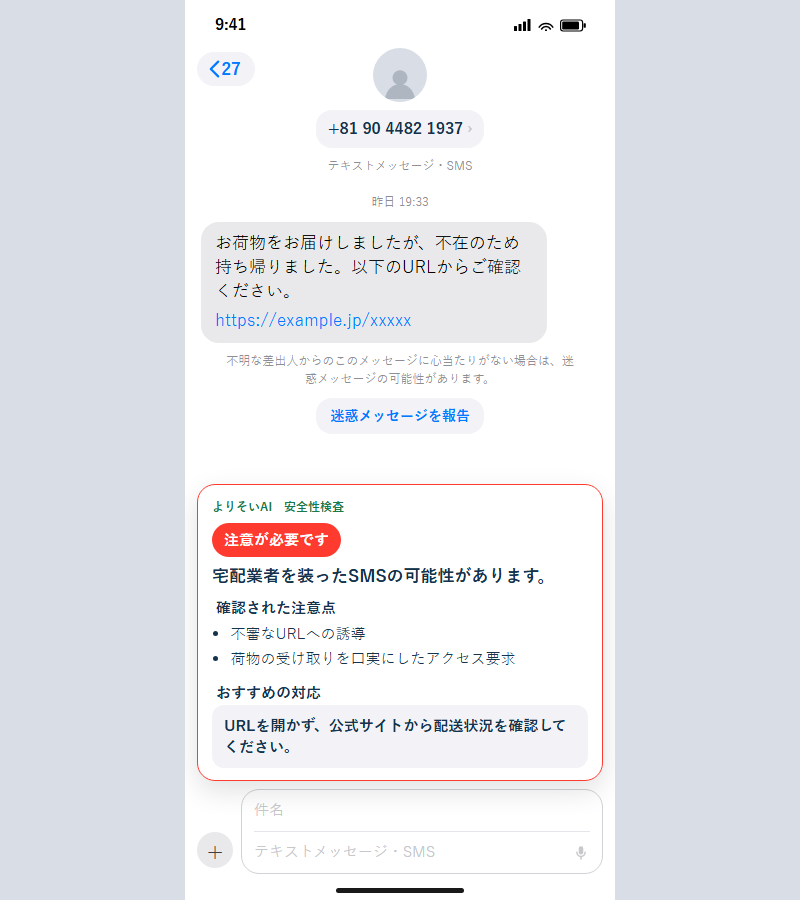
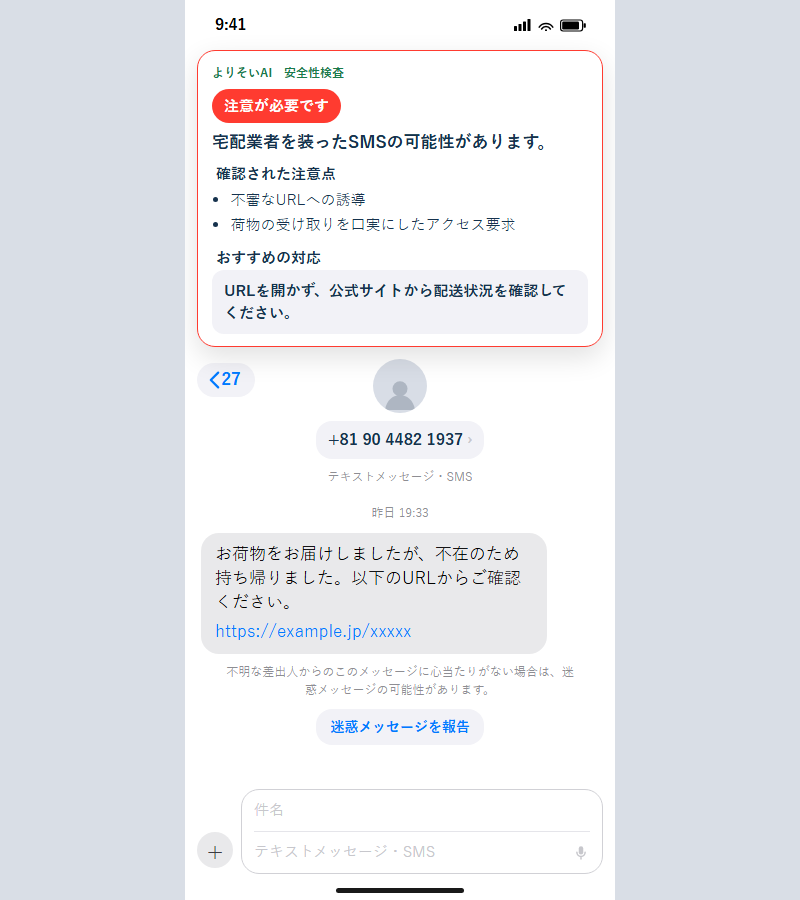
よりそいAIの通知を画面上部に出す

Changed region(s): [[0.25, 0.0311, 0.7188, 0.4978], [0.25, 0.5289, 0.6875, 0.84], [0.5625, 0.5289, 0.5938, 0.56]]

diff --git a/guide.html b/guide.html
@@ -5,7 +5,7 @@
   <meta name="viewport" content="width=device-width, initial-scale=1, viewport-fit=cover">
   <meta name="apple-mobile-web-app-capable" content="yes">
   <title>よりそいAI｜操作支援</title>
-  <link rel="stylesheet" href="app.css?v=8">
+  <link rel="stylesheet" href="app.css?v=9">
 </head>
 <body>
   <main class="phone scene">
@@ -18,6 +18,16 @@
         <svg width="27" height="13" viewBox="0 0 27 13"><rect x="0.6" y="1" width="22" height="11" rx="2.4" stroke="#fff" fill="none" stroke-width="1.2"/><rect x="2.2" y="2.6" width="16.8" height="7.8" rx="1.2" fill="#fff"/><rect x="23.6" y="4.2" width="2.2" height="4.6" rx="0.7" fill="#fff"/></svg>
       </div>
     </div>
+    <section class="coach" aria-label="よりそいAIの案内">
+      <div>
+        <p class="who">よりそいAI　操作支援</p>
+        <h2>ゲームアプリを長押ししてください。</h2>
+        <p>アイコンを指で押し続けてください。<br>続いて「Appを削除」を選んでください。</p>
+      </div>
+      <button type="button" class="speak" aria-label="音声で案内">
+        <svg width="26" height="26" viewBox="0 0 24 24" aria-hidden="true"><path d="M4 9.5v5h3.2L12 18.6V5.4L7.2 9.5H4z" fill="#fff"/><path d="M15.2 8.5a4.2 4.2 0 0 1 0 7M17.6 6.4a7.2 7.2 0 0 1 0 11.2" fill="none" stroke="#fff" stroke-width="1.8" stroke-linecap="round"/></svg>
+      </button>
+    </section>
     <div class="home-grid" aria-label="iPhoneのホーム画面">
       <div class="tile"><span class="mark ico-map"><svg viewBox="0 0 24 24"><path d="M12 21s6-5.4 6-10.2A6 6 0 0 0 6 10.8C6 15.6 12 21 12 21z"/><circle cx="12" cy="10.8" r="1.8" fill="#fff" stroke="none"/></svg></span><span>地図</span></div>
       <div class="tile"><span class="mark ico-clock"><svg viewBox="0 0 24 24"><circle cx="12" cy="12" r="8"/><path d="M12 8v4.4l3 1.8"/></svg></span><span>時計</span></div>
@@ -33,16 +43,6 @@
       <div class="row">編集</div>
       <div class="row danger">Appを削除</div>
     </aside>
-    <section class="coach" aria-label="よりそいAIの案内">
-      <div>
-        <p class="who">よりそいAI　操作支援</p>
-        <h2>ゲームアプリを長押ししてください。</h2>
-        <p>アイコンを指で押し続けてください。<br>続いて「Appを削除」を選んでください。</p>
-      </div>
-      <button type="button" class="speak" aria-label="音声で案内">
-        <svg width="26" height="26" viewBox="0 0 24 24" aria-hidden="true"><path d="M4 9.5v5h3.2L12 18.6V5.4L7.2 9.5H4z" fill="#fff"/><path d="M15.2 8.5a4.2 4.2 0 0 1 0 7M17.6 6.4a7.2 7.2 0 0 1 0 11.2" fill="none" stroke="#fff" stroke-width="1.8" stroke-linecap="round"/></svg>
-      </button>
-    </section>
     <div class="dock" aria-hidden="true">
       <div class="tile"><span class="mark ico-call"><svg viewBox="0 0 24 24"><path d="M6.6 3.8h3.1l1 4.1-2 1.2a12.5 12.5 0 0 0 6.2 6.2l1.2-2 4.1 1v3.1c0 .9-.7 1.6-1.6 1.6C10.4 19 5 13.6 5 5.4 5 4.5 5.7 3.8 6.6 3.8z"/></svg></span><span>電話</span></div>
       <div class="tile"><span class="mark ico-photo"><svg viewBox="0 0 24 24"><rect x="3.5" y="5.5" width="17" height="13" rx="2"/><circle cx="9" cy="10.2" r="1.5"/><path d="m7.5 16.5 3.4-3.6 2.4 2.4 2.2-2.3 3.5 3.5"/></svg></span><span>写真</span></div>

diff --git a/explain.html b/explain.html
@@ -5,7 +5,7 @@
   <meta name="viewport" content="width=device-width, initial-scale=1, viewport-fit=cover">
   <meta name="apple-mobile-web-app-capable" content="yes">
   <title>よりそいAI｜文章解説</title>
-  <link rel="stylesheet" href="app.css?v=8">
+  <link rel="stylesheet" href="app.css?v=9">
 </head>
 <body>
   <main class="phone scene">
@@ -25,6 +25,16 @@
         <svg width="27" height="13" viewBox="0 0 27 13"><rect x="0.6" y="1" width="22" height="11" rx="2.4" stroke="#fff" fill="none" stroke-width="1.2"/><rect x="2.2" y="2.6" width="16.8" height="7.8" rx="1.2" fill="#fff"/><rect x="23.6" y="4.2" width="2.2" height="4.6" rx="0.7" fill="#fff"/></svg>
       </div>
     </div>
+    <section class="coach" aria-label="よりそいAIの解説">
+      <div>
+        <p class="who">よりそいAI　文章解説</p>
+        <h2>これは位置情報の利用確認です。</h2>
+        <p>許可すると、あなたの現在地が取得されます。<br>音声でも詳しく説明します。</p>
+      </div>
+      <button type="button" class="speak" aria-label="音声で詳しく説明">
+        <svg width="26" height="26" viewBox="0 0 24 24" aria-hidden="true"><path d="M4 9.5v5h3.2L12 18.6V5.4L7.2 9.5H4z" fill="#fff"/><path d="M15.2 8.5a4.2 4.2 0 0 1 0 7M17.6 6.4a7.2 7.2 0 0 1 0 11.2" fill="none" stroke="#fff" stroke-width="1.8" stroke-linecap="round"/></svg>
+      </button>
+    </section>
     <div class="search-ios">
       <svg class="mag" width="18" height="18" viewBox="0 0 24 24" aria-hidden="true"><circle cx="11" cy="11" r="6.2" fill="none" stroke="currentColor" stroke-width="2"/><path d="M16 16.5 21 21.5" fill="none" stroke="currentColor" stroke-width="2" stroke-linecap="round"/></svg>
       <b>ここで検索</b>
@@ -50,16 +60,6 @@
         <span>アプリの使用中は許可</span>
         <span>許可しない</span>
       </div>
-    </section>
-    <section class="coach" aria-label="よりそいAIの解説">
-      <div>
-        <p class="who">よりそいAI　文章解説</p>
-        <h2>これは位置情報の利用確認です。</h2>
-        <p>許可すると、あなたの現在地が取得されます。<br>音声でも詳しく説明します。</p>
-      </div>
-      <button type="button" class="speak" aria-label="音声で詳しく説明">
-        <svg width="26" height="26" viewBox="0 0 24 24" aria-hidden="true"><path d="M4 9.5v5h3.2L12 18.6V5.4L7.2 9.5H4z" fill="#fff"/><path d="M15.2 8.5a4.2 4.2 0 0 1 0 7M17.6 6.4a7.2 7.2 0 0 1 0 11.2" fill="none" stroke="#fff" stroke-width="1.8" stroke-linecap="round"/></svg>
-      </button>
     </section>
     <div class="map-tabs" aria-hidden="true">
       <span class="on">

diff --git a/safety.html b/safety.html
@@ -5,7 +5,7 @@
   <meta name="viewport" content="width=device-width, initial-scale=1, viewport-fit=cover">
   <meta name="apple-mobile-web-app-capable" content="yes">
   <title>よりそいAI｜安全性検査</title>
-  <link rel="stylesheet" href="app.css?v=8">
+  <link rel="stylesheet" href="app.css?v=9">
 </head>
 <body>
   <main class="phone scene messages">
@@ -17,6 +17,18 @@
         <svg width="27" height="13" viewBox="0 0 27 13"><rect x="0.6" y="1" width="22" height="11" rx="2.4" stroke="#000" fill="none" stroke-width="1.2"/><rect x="2.2" y="2.6" width="16.8" height="7.8" rx="1.2" fill="#000"/><rect x="23.6" y="4.2" width="2.2" height="4.6" rx="0.7" fill="#000"/></svg>
       </div>
     </div>
+    <section class="alert" aria-label="AIによる安全性検査の結果">
+      <p class="src">よりそいAI　安全性検査</p>
+      <span class="badge">注意が必要です</span>
+      <h2>宅配業者を装ったSMSの可能性があります。</h2>
+      <p class="label">確認された注意点</p>
+      <ul>
+        <li>不審なURLへの誘導</li>
+        <li>荷物の受け取りを口実にしたアクセス要求</li>
+      </ul>
+      <p class="label">おすすめの対応</p>
+      <p class="act">URLを開かず、公式サイトから配送状況を確認してください。</p>
+    </section>
     <header class="imsg-head">
       <span class="imsg-back" aria-hidden="true">
         <svg width="11" height="18" viewBox="0 0 11 18"><path d="M9.2 1.6 1.8 9l7.4 7.4" fill="none" stroke="currentColor" stroke-width="2.2" stroke-linecap="round" stroke-linejoin="round"/></svg>
@@ -37,18 +49,6 @@
       <p class="warn">不明な差出人からのこのメッセージに心当たりがない場合は、迷惑メッセージの可能性があります。</p>
       <span class="report">迷惑メッセージを報告</span>
     </div>
-    <section class="alert" aria-label="AIによる安全性検査の結果">
-      <p class="src">よりそいAI　安全性検査</p>
-      <span class="badge">注意が必要です</span>
-      <h2>宅配業者を装ったSMSの可能性があります。</h2>
-      <p class="label">確認された注意点</p>
-      <ul>
-        <li>不審なURLへの誘導</li>
-        <li>荷物の受け取りを口実にしたアクセス要求</li>
-      </ul>
-      <p class="label">おすすめの対応</p>
-      <p class="act">URLを開かず、公式サイトから配送状況を確認してください。</p>
-    </section>
     <div class="imsg-comp" aria-hidden="true">
       <div class="plus">+</div>
       <div class="comp-fields">

diff --git a/app.css b/app.css
@@ -372,10 +372,11 @@ body {
 .ico-weather { background: linear-gradient(180deg, #5ac8fa, #007aff); }
 .ico-game { background: linear-gradient(180deg, #bf5af2, #af52de); }
 .ico-cam { background: linear-gradient(180deg, #8e8e93, #636366); }
+.home-grid { flex: 1; }
 .dock {
   position: relative;
   z-index: 2;
-  margin: 0 16px 8px;
+  margin: auto 16px 8px;
   display: grid;
   grid-template-columns: repeat(4, 1fr);
   align-items: center;
@@ -391,18 +392,19 @@ body {
 
 .coach {
   position: relative;
-  z-index: 7;
-  margin: auto 12px 8px;
-  background: rgba(255, 255, 255, 0.94);
+  z-index: 12;
+  margin: 4px 12px 12px;
+  background: rgba(255, 255, 255, 0.96);
   backdrop-filter: blur(20px);
   -webkit-backdrop-filter: blur(20px);
   border-radius: 18px;
   padding: 14px 14px 14px 16px;
-  box-shadow: 0 12px 28px rgba(0, 0, 0, 0.18);
+  box-shadow: 0 12px 28px rgba(0, 0, 0, 0.22);
   display: grid;
-  grid-template-columns: 1fr 52px;
+  grid-template-columns: minmax(0, 1fr) 52px;
   gap: 10px;
   align-items: start;
+  flex-shrink: 0;
 }
 .coach .who {
   font-size: 13px;
@@ -429,8 +431,8 @@ body {
 }
 .inset {
   position: absolute;
-  right: 10px;
-  top: 118px;
+  right: 12px;
+  top: 308px;
   width: 198px;
   background: rgba(245, 245, 247, 0.94);
   backdrop-filter: blur(24px);
@@ -482,6 +484,7 @@ body {
   border-radius: 4px;
 }
 .search-ios {
+  display: none;
   position: absolute;
   left: 12px;
   right: 12px;
@@ -509,7 +512,7 @@ body {
 .sheet {
   position: relative;
   z-index: 5;
-  margin: 104px 16px 10px;
+  margin: 8px 16px auto;
   background: rgba(245, 245, 247, 0.94);
   backdrop-filter: blur(40px);
   -webkit-backdrop-filter: blur(40px);
@@ -722,14 +725,15 @@ body {
   font-weight: 600;
 }
 .alert {
-  margin: 4px 12px 8px;
+  margin: 4px 12px 10px;
   background: #fff;
   border-radius: 18px;
   padding: 12px 14px 12px;
   box-shadow: 0 10px 28px rgba(0, 0, 0, 0.12);
   border: 1px solid #ff3b30;
   position: relative;
-  z-index: 3;
+  z-index: 12;
+  flex-shrink: 0;
 }
 .alert .badge {
   display: inline-block;

diff --git a/consult.html b/consult.html
@@ -5,7 +5,7 @@
   <meta name="viewport" content="width=device-width, initial-scale=1, viewport-fit=cover">
   <meta name="apple-mobile-web-app-capable" content="yes">
   <title>よりそいAI｜操作支援</title>
-  <link rel="stylesheet" href="app.css?v=8">
+  <link rel="stylesheet" href="app.css?v=9">
 </head>
 <body>
   <main class="phone">

diff --git a/followup.html b/followup.html
@@ -5,7 +5,7 @@
   <meta name="viewport" content="width=device-width, initial-scale=1, viewport-fit=cover">
   <meta name="apple-mobile-web-app-capable" content="yes">
   <title>よりそいAI｜操作支援</title>
-  <link rel="stylesheet" href="app.css?v=8">
+  <link rel="stylesheet" href="app.css?v=9">
 </head>
 <body>
   <main class="phone">

diff --git a/home.html b/home.html
@@ -5,7 +5,7 @@
   <meta name="viewport" content="width=device-width, initial-scale=1, viewport-fit=cover">
   <meta name="apple-mobile-web-app-capable" content="yes">
   <title>よりそいAI</title>
-  <link rel="stylesheet" href="app.css?v=8">
+  <link rel="stylesheet" href="app.css?v=9">
 </head>
 <body>
   <main class="phone">

diff --git a/index.html b/index.html
@@ -4,7 +4,7 @@
   <meta charset="UTF-8">
   <meta name="viewport" content="width=device-width, initial-scale=1, viewport-fit=cover">
   <title>よりそいAI モックアップ</title>
-  <link rel="stylesheet" href="app.css?v=8">
+  <link rel="stylesheet" href="app.css?v=9">
 </head>
 <body>
   <main class="gallery">
